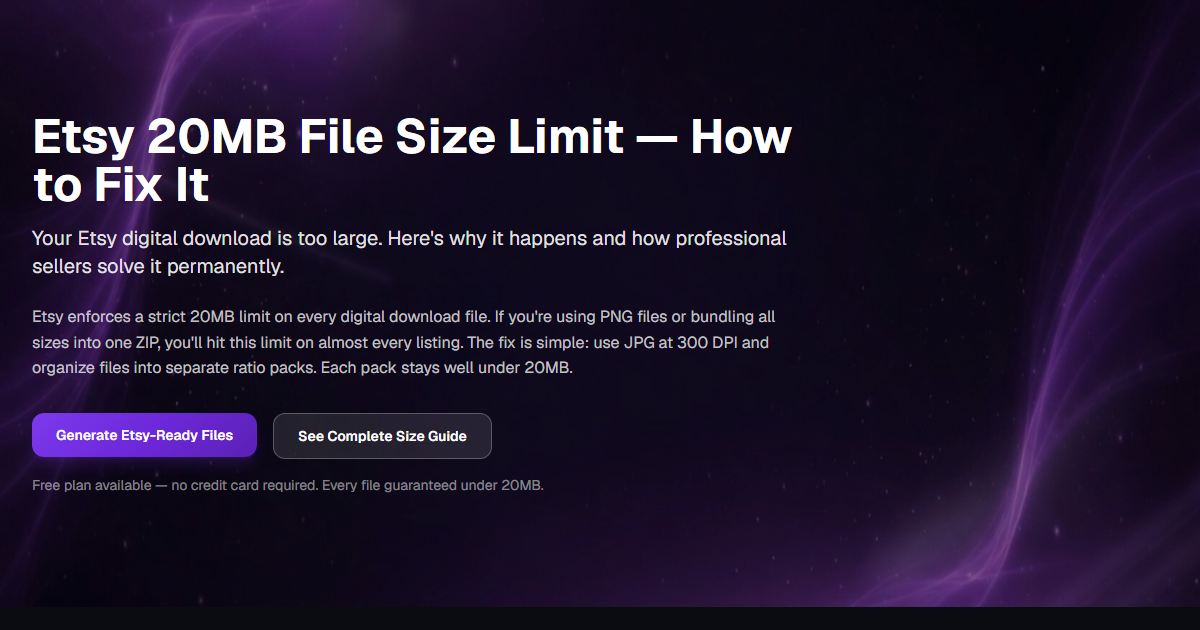
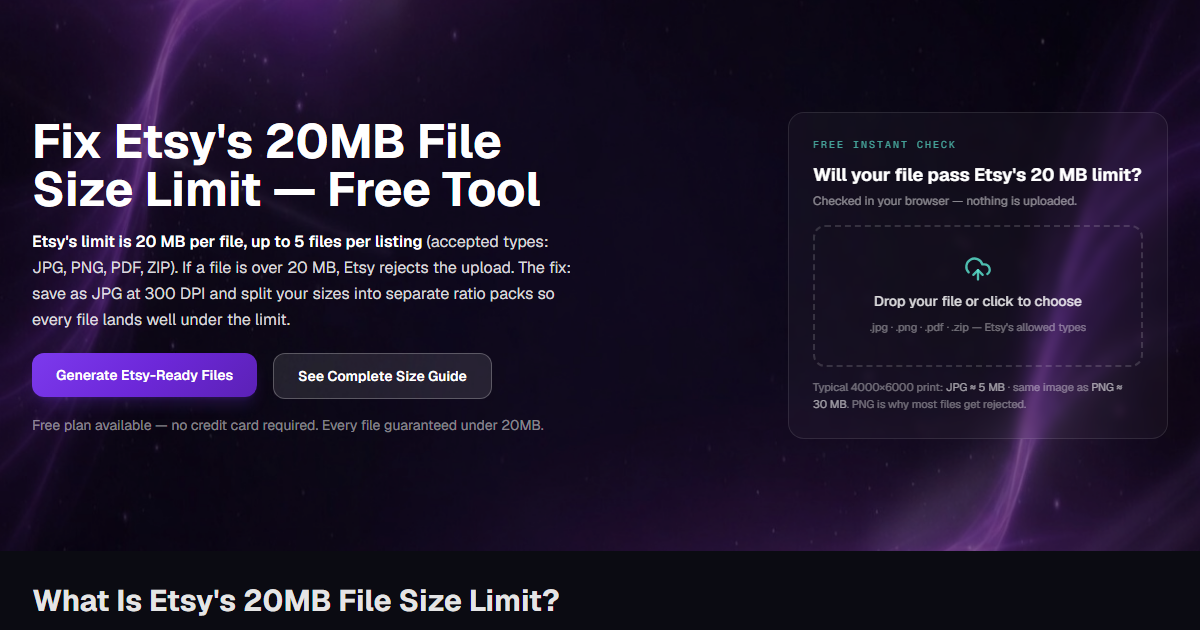
seo: CTR-fix 2 zero-click Etsy file-limit pages + file-size checker
Both pages rank pos 3.5-7 for "etsy file size limit 2026" queries (~31% of all
site impressions) yet get ~0 clicks. Live SERP is dominated by Etsy's help doc
+ YouTube, so the lever is the snippet and a hook the AI Overview can't satisfy.

- etsy-20mb-file-limit: title now leads with the fix/free tool (not the number);
  2-col hero with an interactive client-side FileSizeChecker (reads file.size
  locally, no upload); plain-semantic instant-answer block for AI citability;
  regenerated OG image to match the new hero.
- how-to-upload-more-than-5-files-etsy: subhead sharpened to a citable file-COUNT
  answer so it stops competing with the size page on size queries.

Changed region(s): [[0.0, 0.0, 1.0, 0.9952]]

diff --git a/app-next/components/FileSizeChecker.tsx b/app-next/components/FileSizeChecker.tsx
@@ -1,0 +1,133 @@
+"use client";
+
+import { useRef, useState } from "react";
+import { Check, AlertTriangle, UploadCloud, RotateCcw } from "lucide-react";
+
+const LIMIT_MB = 20;
+const ACCEPT = ".jpg,.jpeg,.png,.pdf,.zip";
+
+type Result = { name: string; sizeMB: number };
+
+export function FileSizeChecker({ appUrl }: { appUrl: string }) {
+  const [result, setResult] = useState<Result | null>(null);
+  const [dragging, setDragging] = useState(false);
+  const inputRef = useRef<HTMLInputElement>(null);
+
+  function handleFile(file: File | undefined | null) {
+    if (!file) return;
+    setResult({ name: file.name, sizeMB: file.size / (1024 * 1024) });
+  }
+
+  const over = result ? result.sizeMB > LIMIT_MB : false;
+  const sizeLabel = result ? result.sizeMB.toFixed(result.sizeMB < 10 ? 1 : 0) : "";
+  const overBy = result ? (result.sizeMB - LIMIT_MB).toFixed(result.sizeMB - LIMIT_MB < 10 ? 1 : 0) : "";
+
+  return (
+    <div className="w-full max-w-[380px] rounded-2xl border border-white/10 bg-white/[0.03] p-6 backdrop-blur-sm">
+      <p className="text-[10px] font-mono uppercase tracking-[0.2em] text-teal-300/70 mb-2">
+        Free instant check
+      </p>
+      <p className="text-lg font-bold text-white mb-1">
+        Will your file pass Etsy&apos;s 20&nbsp;MB limit?
+      </p>
+      <p className="text-xs text-white/50 mb-4">
+        Checked in your browser — nothing is uploaded.
+      </p>
+
+      {!result ? (
+        <>
+          <label
+            onDragOver={(e) => {
+              e.preventDefault();
+              setDragging(true);
+            }}
+            onDragLeave={() => setDragging(false)}
+            onDrop={(e) => {
+              e.preventDefault();
+              setDragging(false);
+              handleFile(e.dataTransfer.files?.[0]);
+            }}
+            className={`flex cursor-pointer flex-col items-center justify-center gap-2 rounded-xl border-2 border-dashed px-4 py-7 text-center transition-colors ${
+              dragging
+                ? "border-teal-400/70 bg-teal-400/[0.06]"
+                : "border-white/15 hover:border-teal-400/40 hover:bg-white/[0.02]"
+            }`}
+          >
+            <UploadCloud className="h-7 w-7 text-teal-300/80" />
+            <span className="text-sm font-medium text-white/85">
+              Drop your file or click to choose
+            </span>
+            <span className="text-[11px] text-white/40">
+              .jpg · .png · .pdf · .zip — Etsy&apos;s allowed types
+            </span>
+            <input
+              ref={inputRef}
+              type="file"
+              accept={ACCEPT}
+              className="sr-only"
+              onChange={(e) => handleFile(e.target.files?.[0])}
+            />
+          </label>
+          <p className="mt-3 text-[11px] leading-relaxed text-white/40">
+            Typical 4000×6000 print: <span className="text-white/60">JPG ≈ 5&nbsp;MB</span> ·
+            same image as <span className="text-white/60">PNG ≈ 30&nbsp;MB</span>. PNG is why
+            most files get rejected.
+          </p>
+        </>
+      ) : (
+        <div>
+          <div
+            className={`flex items-start gap-3 rounded-xl border px-4 py-4 ${
+              over
+                ? "border-amber-500/30 bg-amber-500/[0.07]"
+                : "border-teal-500/30 bg-teal-500/[0.08]"
+            }`}
+          >
+            {over ? (
+              <AlertTriangle className="mt-0.5 h-5 w-5 shrink-0 text-amber-400" />
+            ) : (
+              <Check className="mt-0.5 h-5 w-5 shrink-0 text-teal-400" />
+            )}
+            <div className="min-w-0">
+              <p className="truncate text-sm font-semibold text-white" title={result.name}>
+                {result.name}
+              </p>
+              <p className={`text-sm ${over ? "text-amber-200/90" : "text-teal-200/90"}`}>
+                {sizeLabel}&nbsp;MB —{" "}
+                {over
+                  ? `over by ${overBy} MB`
+                  : "under Etsy's 20 MB limit. You're good to upload."}
+              </p>
+            </div>
+          </div>
+
+          {over && (
+            <p className="mt-3 text-xs leading-relaxed text-white/60">
+              Convert to <span className="text-white/85">JPG at 300&nbsp;DPI</span> and split your
+              sizes into <span className="text-white/85">ratio packs</span> — each pack lands well
+              under 20&nbsp;MB. SnapToSize does both automatically.
+            </p>
+          )}
+
+          <a href={appUrl} target="_blank" rel="noopener noreferrer" className="mt-4 block">
+            <span className="gradient-btn focus-ring inline-flex w-full items-center justify-center rounded-xl px-6 py-3 text-sm font-semibold text-white shadow-lg shadow-accent/20 transition-all hover:shadow-xl hover:shadow-accent/30">
+              {over ? "Fix it free →" : "Generate Etsy-ready files free →"}
+            </span>
+          </a>
+
+          <button
+            type="button"
+            onClick={() => {
+              setResult(null);
+              if (inputRef.current) inputRef.current.value = "";
+            }}
+            className="focus-ring mx-auto mt-3 flex items-center gap-1.5 text-xs text-white/45 hover:text-white/70"
+          >
+            <RotateCcw className="h-3 w-3" />
+            Check another file
+          </button>
+        </div>
+      )}
+    </div>
+  );
+}

diff --git a/app-next/app/(marketing)/etsy-20mb-file-limit/page.tsx b/app-next/app/(marketing)/etsy-20mb-file-limit/page.tsx
@@ -9,16 +9,17 @@ import { ContextualCTA } from "@/components/ContextualCTA";
 import { FinalCTA } from "@/components/FinalCTA";
 import { FAQAccordion } from "@/components/FAQAccordion";
 import RelatedPages from "@/components/RelatedPages";
+import { FileSizeChecker } from "@/components/FileSizeChecker";
 
 export const metadata: Metadata = {
-  title: "Etsy File Size Limit 2026: 20 MB × 5 Files Per Listing (Fix Guide)",
+  title: "Fix Etsy's 20 MB File Size Limit — Free Tool (2026)",
   description:
-    "Etsy's 2026 limit: 20 MB per file, 5 files per listing. Three proven fixes for files that won't upload — compress, resize, or split into ratio packs. No Photoshop needed.",
+    "Won't upload to Etsy? Check any file against the 20 MB limit instantly, then auto-fix it — convert to JPG and split into ratio packs that always fit. Free, no Photoshop.",
   alternates: { canonical: "https://snaptosize.com/etsy-20mb-file-limit" },
   openGraph: {
-    title: "Etsy File Size Limit 2026: 20 MB × 5 Files Per Listing (Fix Guide)",
+    title: "Fix Etsy's 20 MB File Size Limit — Free Tool (2026)",
     description:
-      "Etsy's 2026 limit: 20 MB per file, 5 files per listing. Three proven fixes for files that won't upload — compress, resize, or split into ratio packs.",
+      "Check any file against Etsy's 20 MB limit instantly, then auto-fix — convert to JPG and split into ratio packs that always fit. Free, no Photoshop.",
     url: "https://snaptosize.com/etsy-20mb-file-limit",
     images: [
       {
@@ -31,9 +32,9 @@ export const metadata: Metadata = {
   },
   twitter: {
     card: "summary_large_image",
-    title: "Etsy File Size Limit 2026: 20 MB × 5 Files Per Listing",
+    title: "Fix Etsy's 20 MB File Size Limit — Free Tool (2026)",
     description:
-      "Etsy's 2026 limit: 20 MB per file, 5 files per listing. Three proven fixes when your file won't upload.",
+      "Check any file against Etsy's 20 MB limit instantly, then auto-fix it so every file uploads.",
     images: ["/assets/og/etsy-20mb-file-limit.png"],
   },
 };
@@ -49,7 +50,7 @@ export default function Etsy20MBFileLimitPage() {
           "Complete guide to Etsy's 20MB file size limit for digital downloads. Learn why files are too large and how to fix it.",
         url: "https://snaptosize.com/etsy-20mb-file-limit",
         datePublished: "2026-03-08",
-        dateModified: "2026-04-14",
+        dateModified: "2026-05-21",
         author: {
           "@type": "Organization",
           name: "SnapToSize",
@@ -216,35 +217,42 @@ export default function Etsy20MBFileLimitPage() {
 
         {/* Hero content — relative z-10 on inner div since Container doesn't accept className */}
         <Container>
-          <div className="relative z-10 max-w-3xl">
-            <h1 className="text-4xl md:text-5xl font-bold mb-4 text-white">
-              Etsy 20MB File Size Limit — How to Fix It
-            </h1>
-            <p className="text-xl text-white/90 mb-6">
-              Your Etsy digital download is too large. Here&apos;s why it happens and how
-              professional sellers solve it permanently.
-            </p>
-            <p className="text-white/75 mb-8">
-              Etsy enforces a strict 20MB limit on every digital download file. If you&apos;re using
-              PNG files or bundling all sizes into one ZIP, you&apos;ll hit this limit on almost
-              every listing. The fix is simple: use JPG at 300 DPI and organize files into
-              separate ratio packs. Each pack stays well under 20MB.
-            </p>
-            <div className="flex flex-wrap gap-4">
-              <a href={appUrl} target="_blank" rel="noopener noreferrer">
-                <Button className="text-base px-6 py-3">
-                  Generate Etsy-Ready Files
-                </Button>
-              </a>
-              <Link href="/etsy-print-sizes">
-                <Button variant="secondary" className="text-base px-6 py-3 bg-white/10 hover:bg-white/20 text-white border border-white/25">
-                  See Complete Size Guide
-                </Button>
-              </Link>
+          <div className="relative z-10 grid md:grid-cols-2 gap-10 lg:gap-14 items-center">
+            {/* Left: copy + instant answer */}
+            <div>
+              <h1 className="text-4xl md:text-5xl font-bold mb-4 text-white leading-tight">
+                Fix Etsy&apos;s 20MB File Size Limit — Free Tool
+              </h1>
+              {/* Instant answer — plain semantic HTML for AI Overview / snippet citability */}
+              <p className="text-white/85 mb-5 leading-relaxed">
+                <span className="font-semibold text-white">
+                  Etsy&apos;s limit is 20&nbsp;MB per file, up to 5 files per listing
+                </span>{" "}
+                (accepted types: JPG, PNG, PDF, ZIP). If a file is over 20&nbsp;MB, Etsy rejects the
+                upload. The fix: save as JPG at 300&nbsp;DPI and split your sizes into separate ratio
+                packs so every file lands well under the limit.
+              </p>
+              <div className="flex flex-wrap gap-4">
+                <a href={appUrl} target="_blank" rel="noopener noreferrer">
+                  <Button className="text-base px-6 py-3">
+                    Generate Etsy-Ready Files
+                  </Button>
+                </a>
+                <Link href="/etsy-print-sizes">
+                  <Button variant="secondary" className="text-base px-6 py-3 bg-white/10 hover:bg-white/20 text-white border border-white/25">
+                    See Complete Size Guide
+                  </Button>
+                </Link>
+              </div>
+              <p className="mt-4 text-sm text-white/50">
+                Free plan available — no credit card required. Every file guaranteed under 20MB.
+              </p>
             </div>
-            <p className="mt-4 text-sm text-white/50">
-              Free plan available — no credit card required. Every file guaranteed under 20MB.
-            </p>
+
+            {/* Right: instant client-side file-size checker */}
+            <div className="flex justify-center md:justify-end">
+              <FileSizeChecker appUrl={appUrl} />
+            </div>
           </div>
         </Container>
       </section>

diff --git a/app-next/app/(marketing)/how-to-upload-more-than-5-files-etsy/page.tsx b/app-next/app/(marketing)/how-to-upload-more-than-5-files-etsy/page.tsx
@@ -108,6 +108,7 @@ export default function HowToUploadMoreThan5FilesEtsyPage() {
     author: { "@type": "Organization", name: "SnapToSize" },
     publisher: { "@type": "Organization", name: "SnapToSize", url: "https://snaptosize.com" },
     datePublished: "2026-04-18",
+    dateModified: "2026-05-21",
     url: "https://snaptosize.com/how-to-upload-more-than-5-files-etsy",
   };
 
@@ -199,9 +200,12 @@ export default function HowToUploadMoreThan5FilesEtsyPage() {
                 How to Upload More Than 5 Files to Etsy
               </h1>
               <p className="text-white/60 text-base mb-6 leading-relaxed">
-                Etsy caps digital listings at 5 files — but your buyers need portrait, landscape,
-                and international sizes. The ZIP strategy lets you deliver up to 70 files from one
-                listing. Here&apos;s exactly how it works.
+                <span className="font-semibold text-white/90">
+                  Etsy allows up to 5 files per listing (20&nbsp;MB each)
+                </span>{" "}
+                — but your buyers need portrait, landscape, and international sizes. Bundle them into
+                5 ratio-organized ZIPs to deliver up to 70 files from one listing. Here&apos;s exactly
+                how it works.
               </p>
 
               {/* Trust pills */}